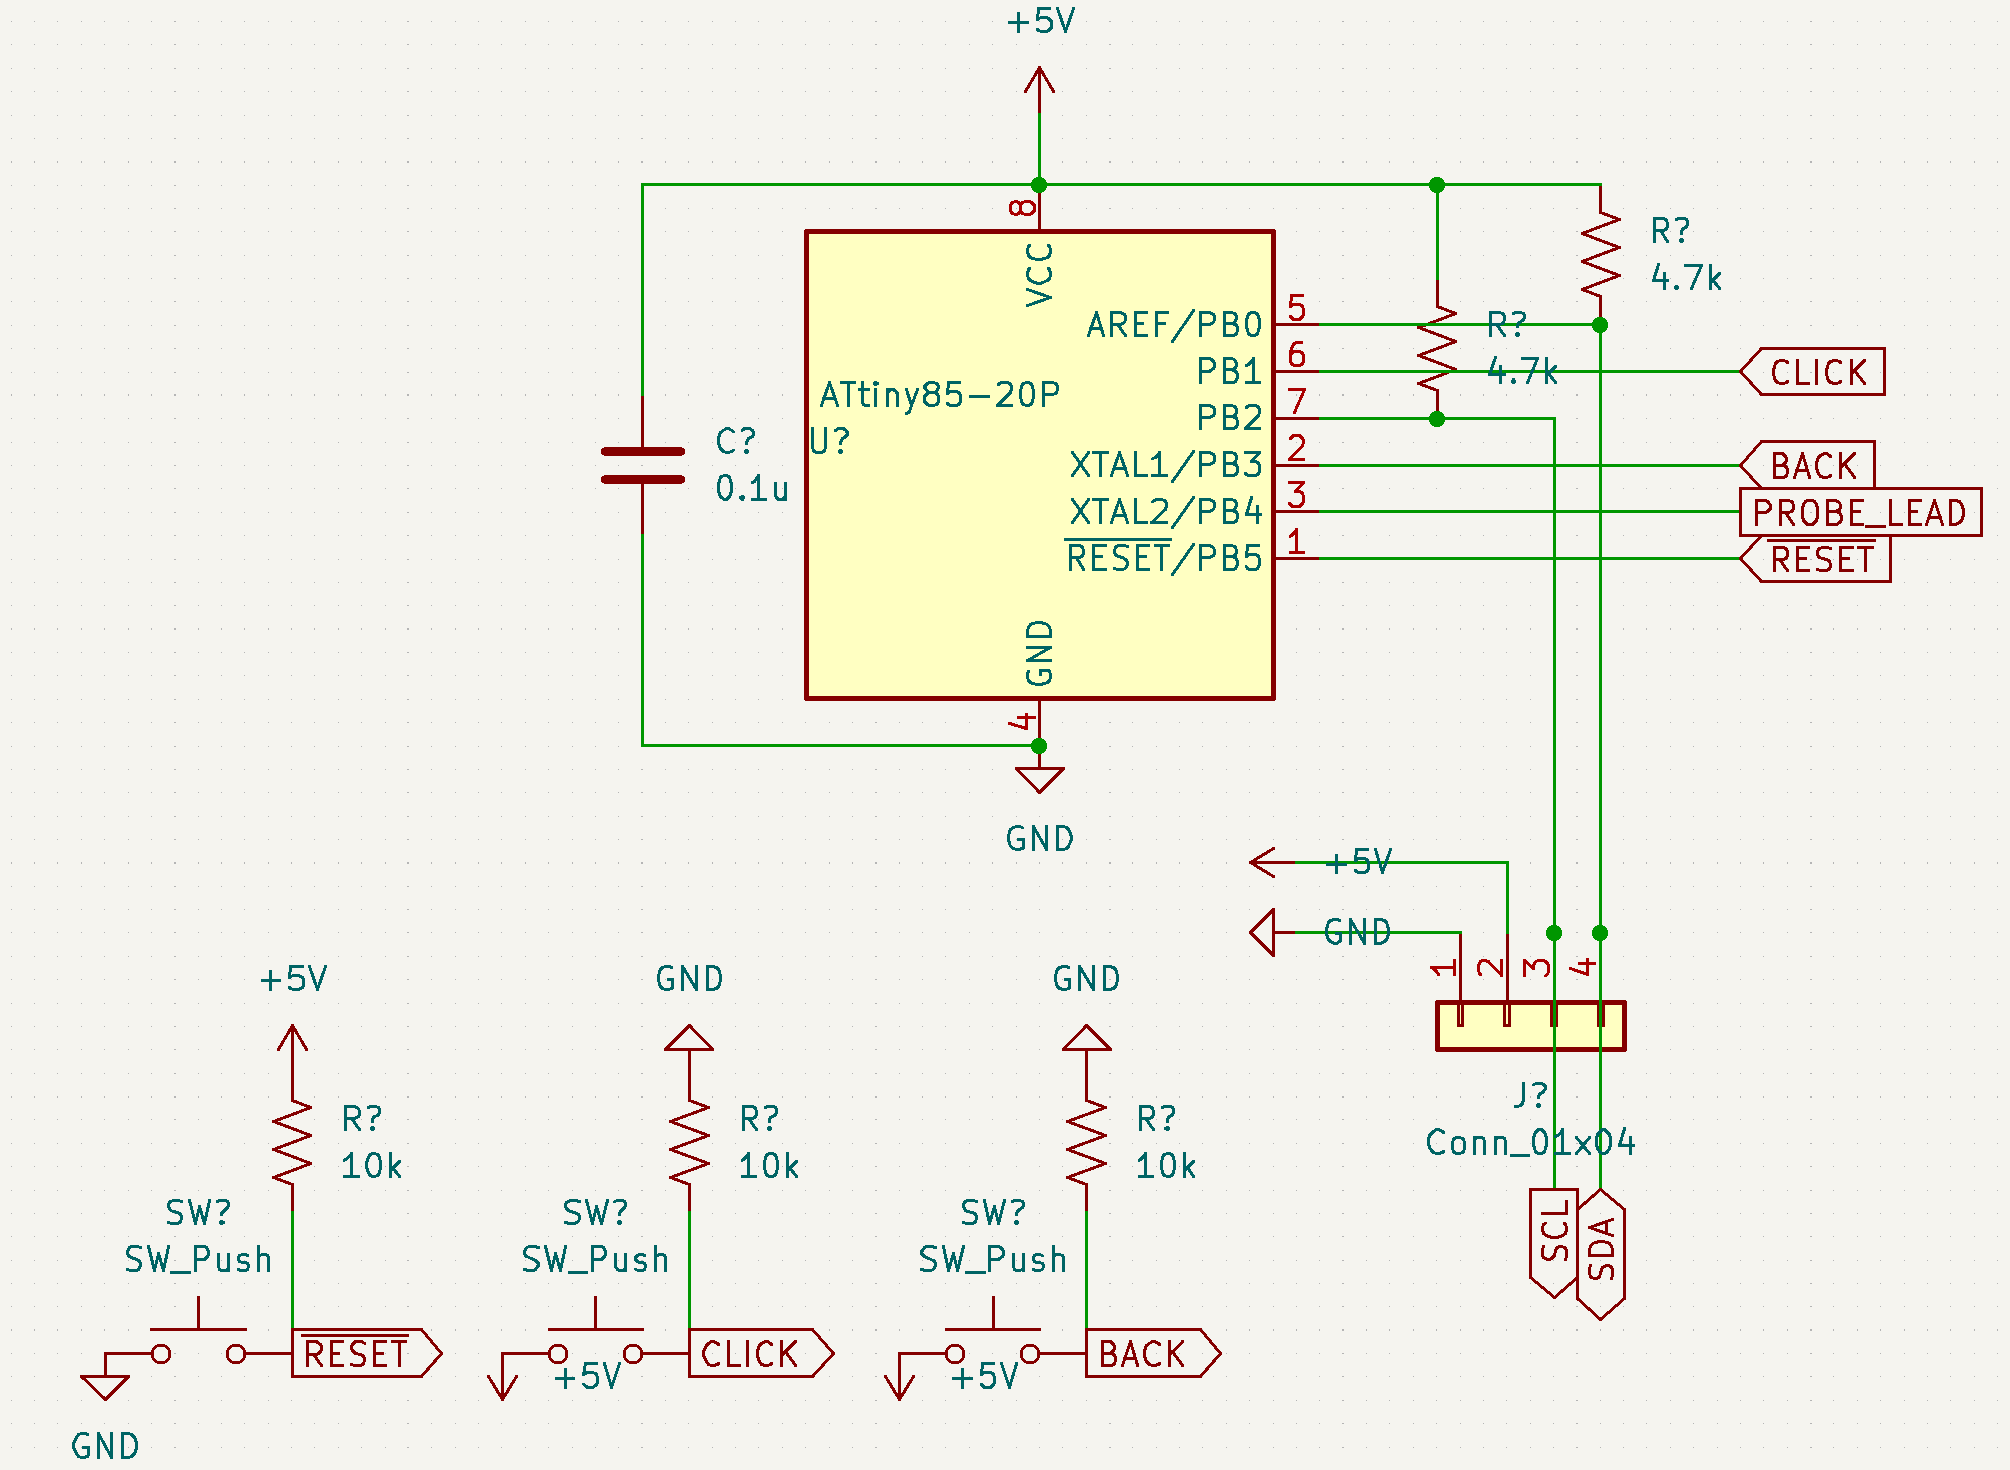
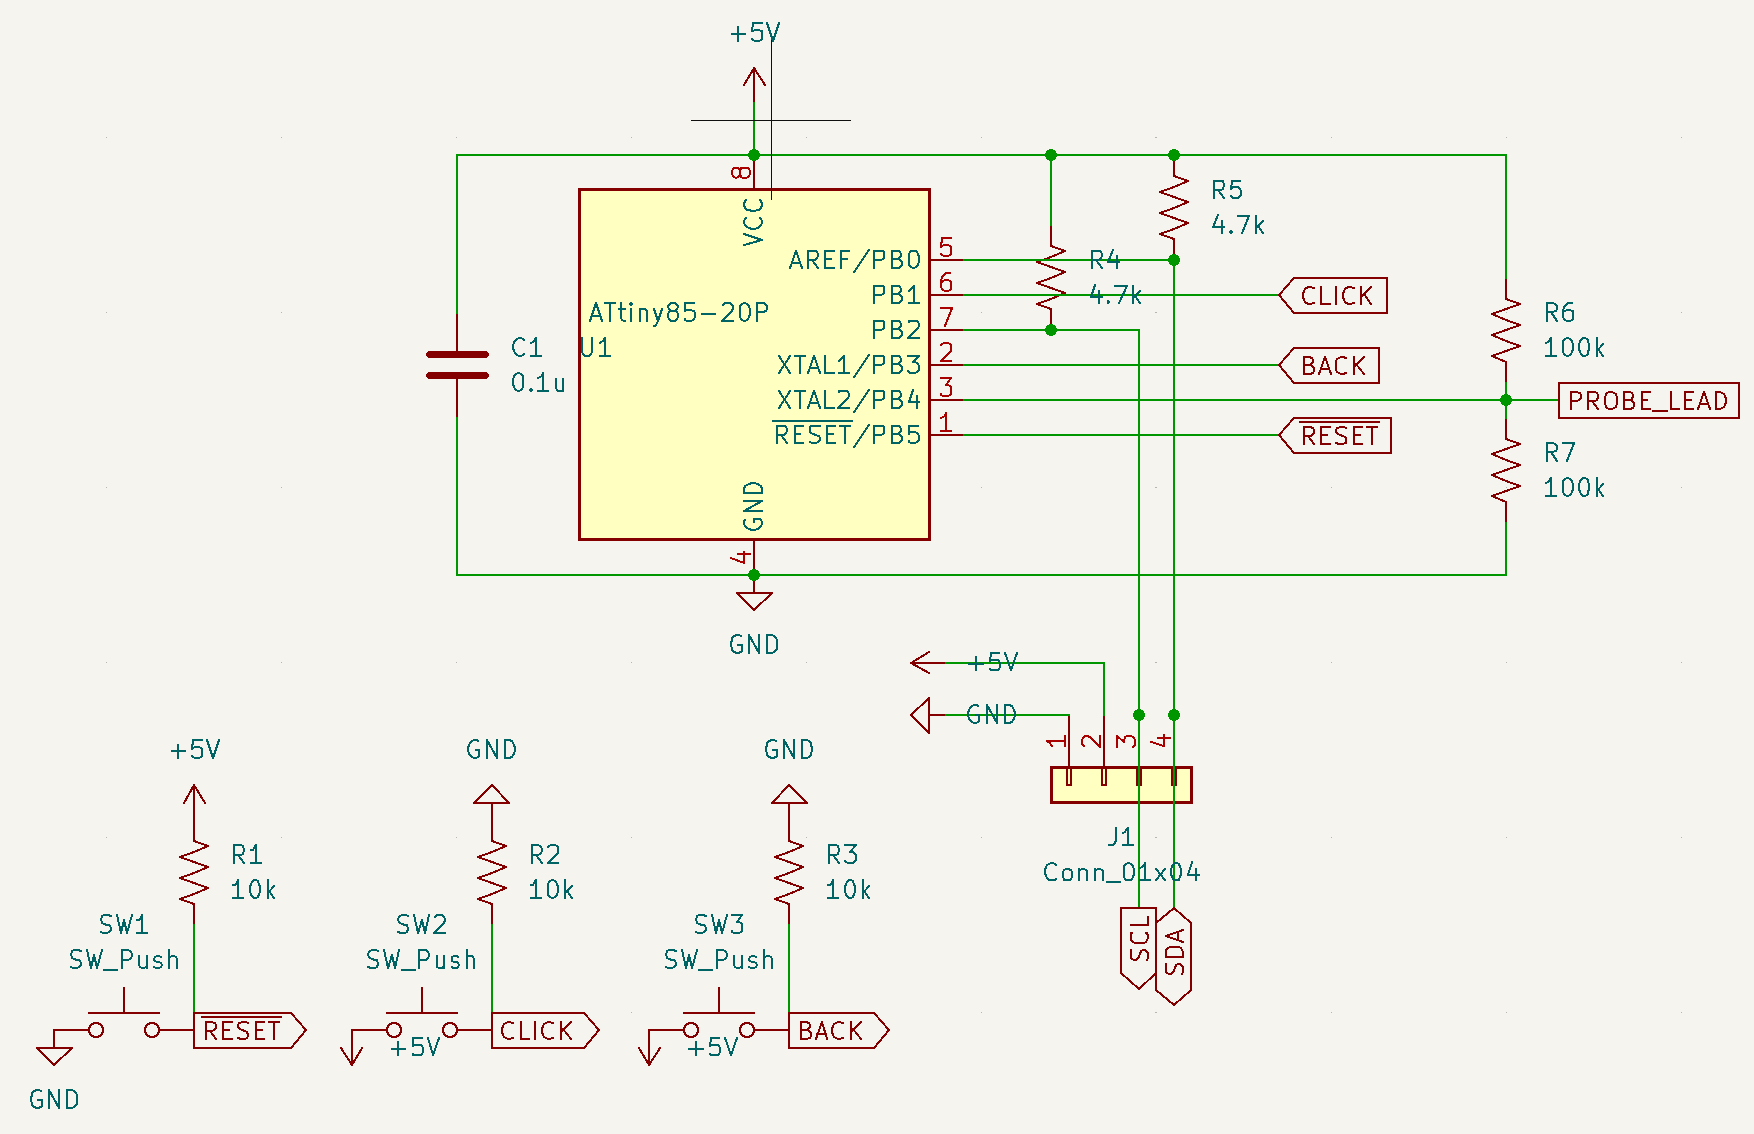
Fixed schematic, temp readme

diff --git a/README.md b/README.md
@@ -1,1 +1,6 @@
 todo: this
+
+reqs:
+attiny85 @ 8MHz, 5V
+SSD1306Ascii library
+128x32 ssd1306 i2c display at 0x3C
